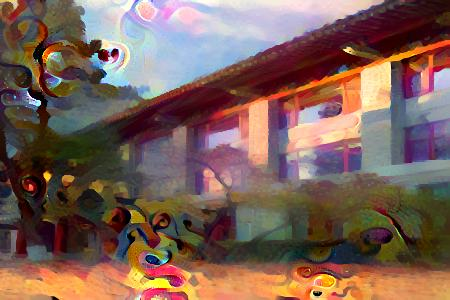
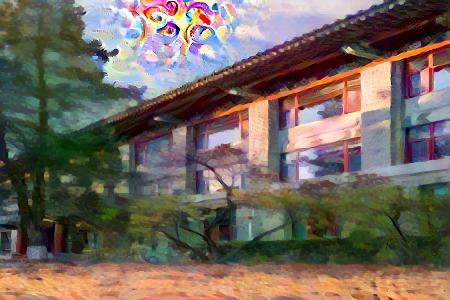
加了几张图片，微调参数

diff --git a/main.py b/main.py
@@ -5,6 +5,7 @@ from torchvision import transforms
 from PIL import Image
 import matplotlib.pyplot as plt
 import os
+import torch.nn.functional as F
 
 # =========================
 # 基本配置
@@ -12,12 +13,12 @@ import os
 device = torch.device("cuda" if torch.cuda.is_available() else "cpu")
 
 content_name = "WestGate.jpg"
-style_name = "starry_night.jpg"
+style_name = "candy.jpg"
 
 content_img = Image.open(f"images/contents/{content_name}").convert("RGB")
 style_img = Image.open(f"images/styles/{style_name}").convert("RGB")
 
-image_shape = (300, 450)
+image_shape = (300, 500)
 
 # ImageNet 归一化参数
 rgb_mean = torch.tensor([0.485, 0.456, 0.406], device=device)
@@ -71,8 +72,9 @@ def content_loss(y_hat, y):
 
 def gram(x):
     b, c, h, w = x.shape
-    x = x.view(c, h * w)
-    return torch.matmul(x, x.t()) / (c * h * w)
+    features = x.view(b, c, h * w)
+    gram_mat = torch.bmm(features, features.transpose(1, 2))
+    return gram_mat / (c * h * w)
 
 def style_loss(y_hat, gram_y):
     return torch.mean((gram(y_hat) - gram_y.detach()) ** 2)
@@ -93,13 +95,13 @@ contents_Y, _ = extract_features(content_X)
 _, styles_Y = extract_features(style_X)
 styles_Y_gram = [gram(y) for y in styles_Y]
 
-noise_strength = 0.1
+noise_strength = 0.02
 generated = nn.Parameter(
     content_X.clone() + noise_strength * torch.randn_like(content_X)
 )
 
 # =========================
-# 优化器 + 学习率衰减（新增）
+# 优化器 + 学习率衰减
 # =========================
 lr = 0.2
 optimizer = torch.optim.Adam([generated], lr=lr)
@@ -110,14 +112,17 @@ scheduler = torch.optim.lr_scheduler.StepLR(
     gamma=0.5
 )
 
-content_weight = 1
-style_weight = 1e4
-tv_weight = 10
+# 分层风格权重
+style_layer_weights = [1.0, 0.8, 0.5, 0.3, 0.1]
+
+content_weight = 20
+style_weight = 3e5
+tv_weight = 30
 
 # =========================
 # 训练
 # =========================
-num_epochs = 500
+num_epochs = 700
 
 for epoch in range(num_epochs):
     optimizer.zero_grad()
@@ -125,14 +130,23 @@ for epoch in range(num_epochs):
     contents_hat, styles_hat = extract_features(generated)
 
     c_loss = sum(content_loss(h, y) for h, y in zip(contents_hat, contents_Y))
-    s_loss = sum(style_loss(h, y) for h, y in zip(styles_hat, styles_Y_gram))
+    s_loss = sum(
+        w * style_loss(h, y)
+        for h, y, w in zip(styles_hat, styles_Y_gram, style_layer_weights)
+    )
     t_loss = tv_loss(generated)
 
     loss = content_weight * c_loss + style_weight * s_loss + tv_weight * t_loss
     loss.backward()
     optimizer.step()
+    scheduler.step()
 
-    scheduler.step()   # ← 新增：学习率衰减
+    # 防止像素值爆炸（非常重要）
+    with torch.no_grad():
+        generated.clamp_(
+            (0 - rgb_mean.view(1,3,1,1)) / rgb_std.view(1,3,1,1),
+            (1 - rgb_mean.view(1,3,1,1)) / rgb_std.view(1,3,1,1)
+        )
 
     if (epoch + 1) % 50 == 0:
         print(
